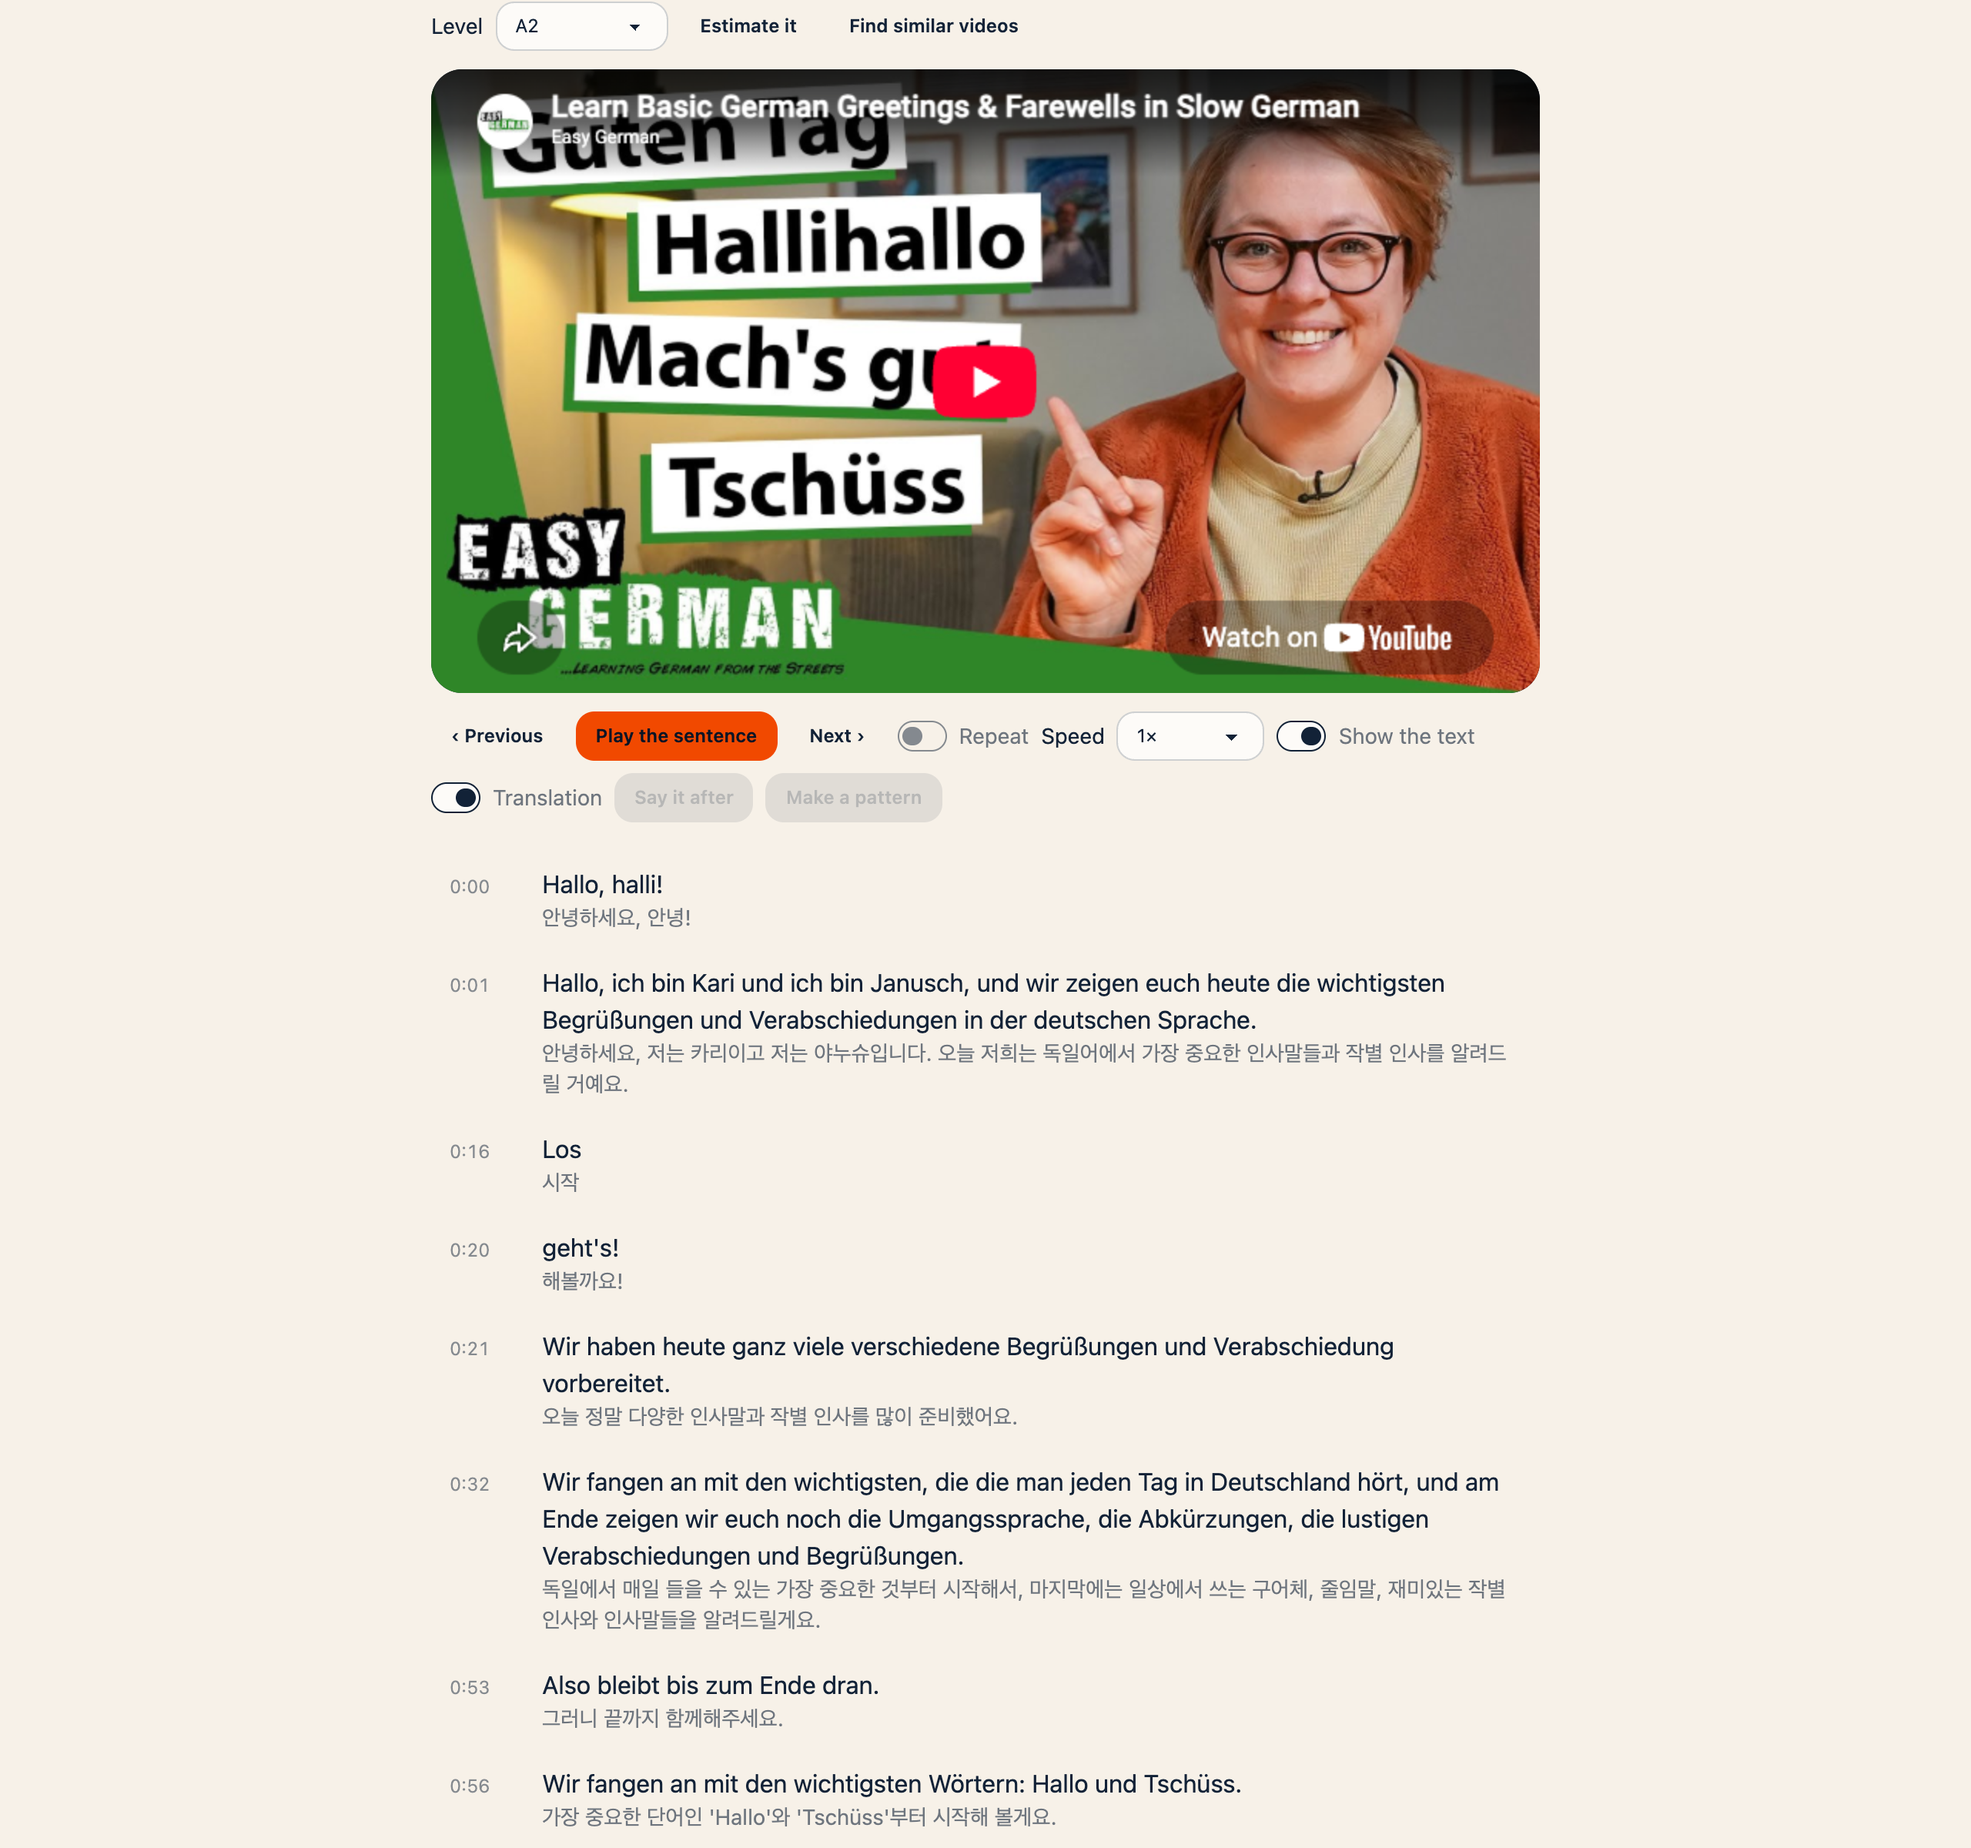
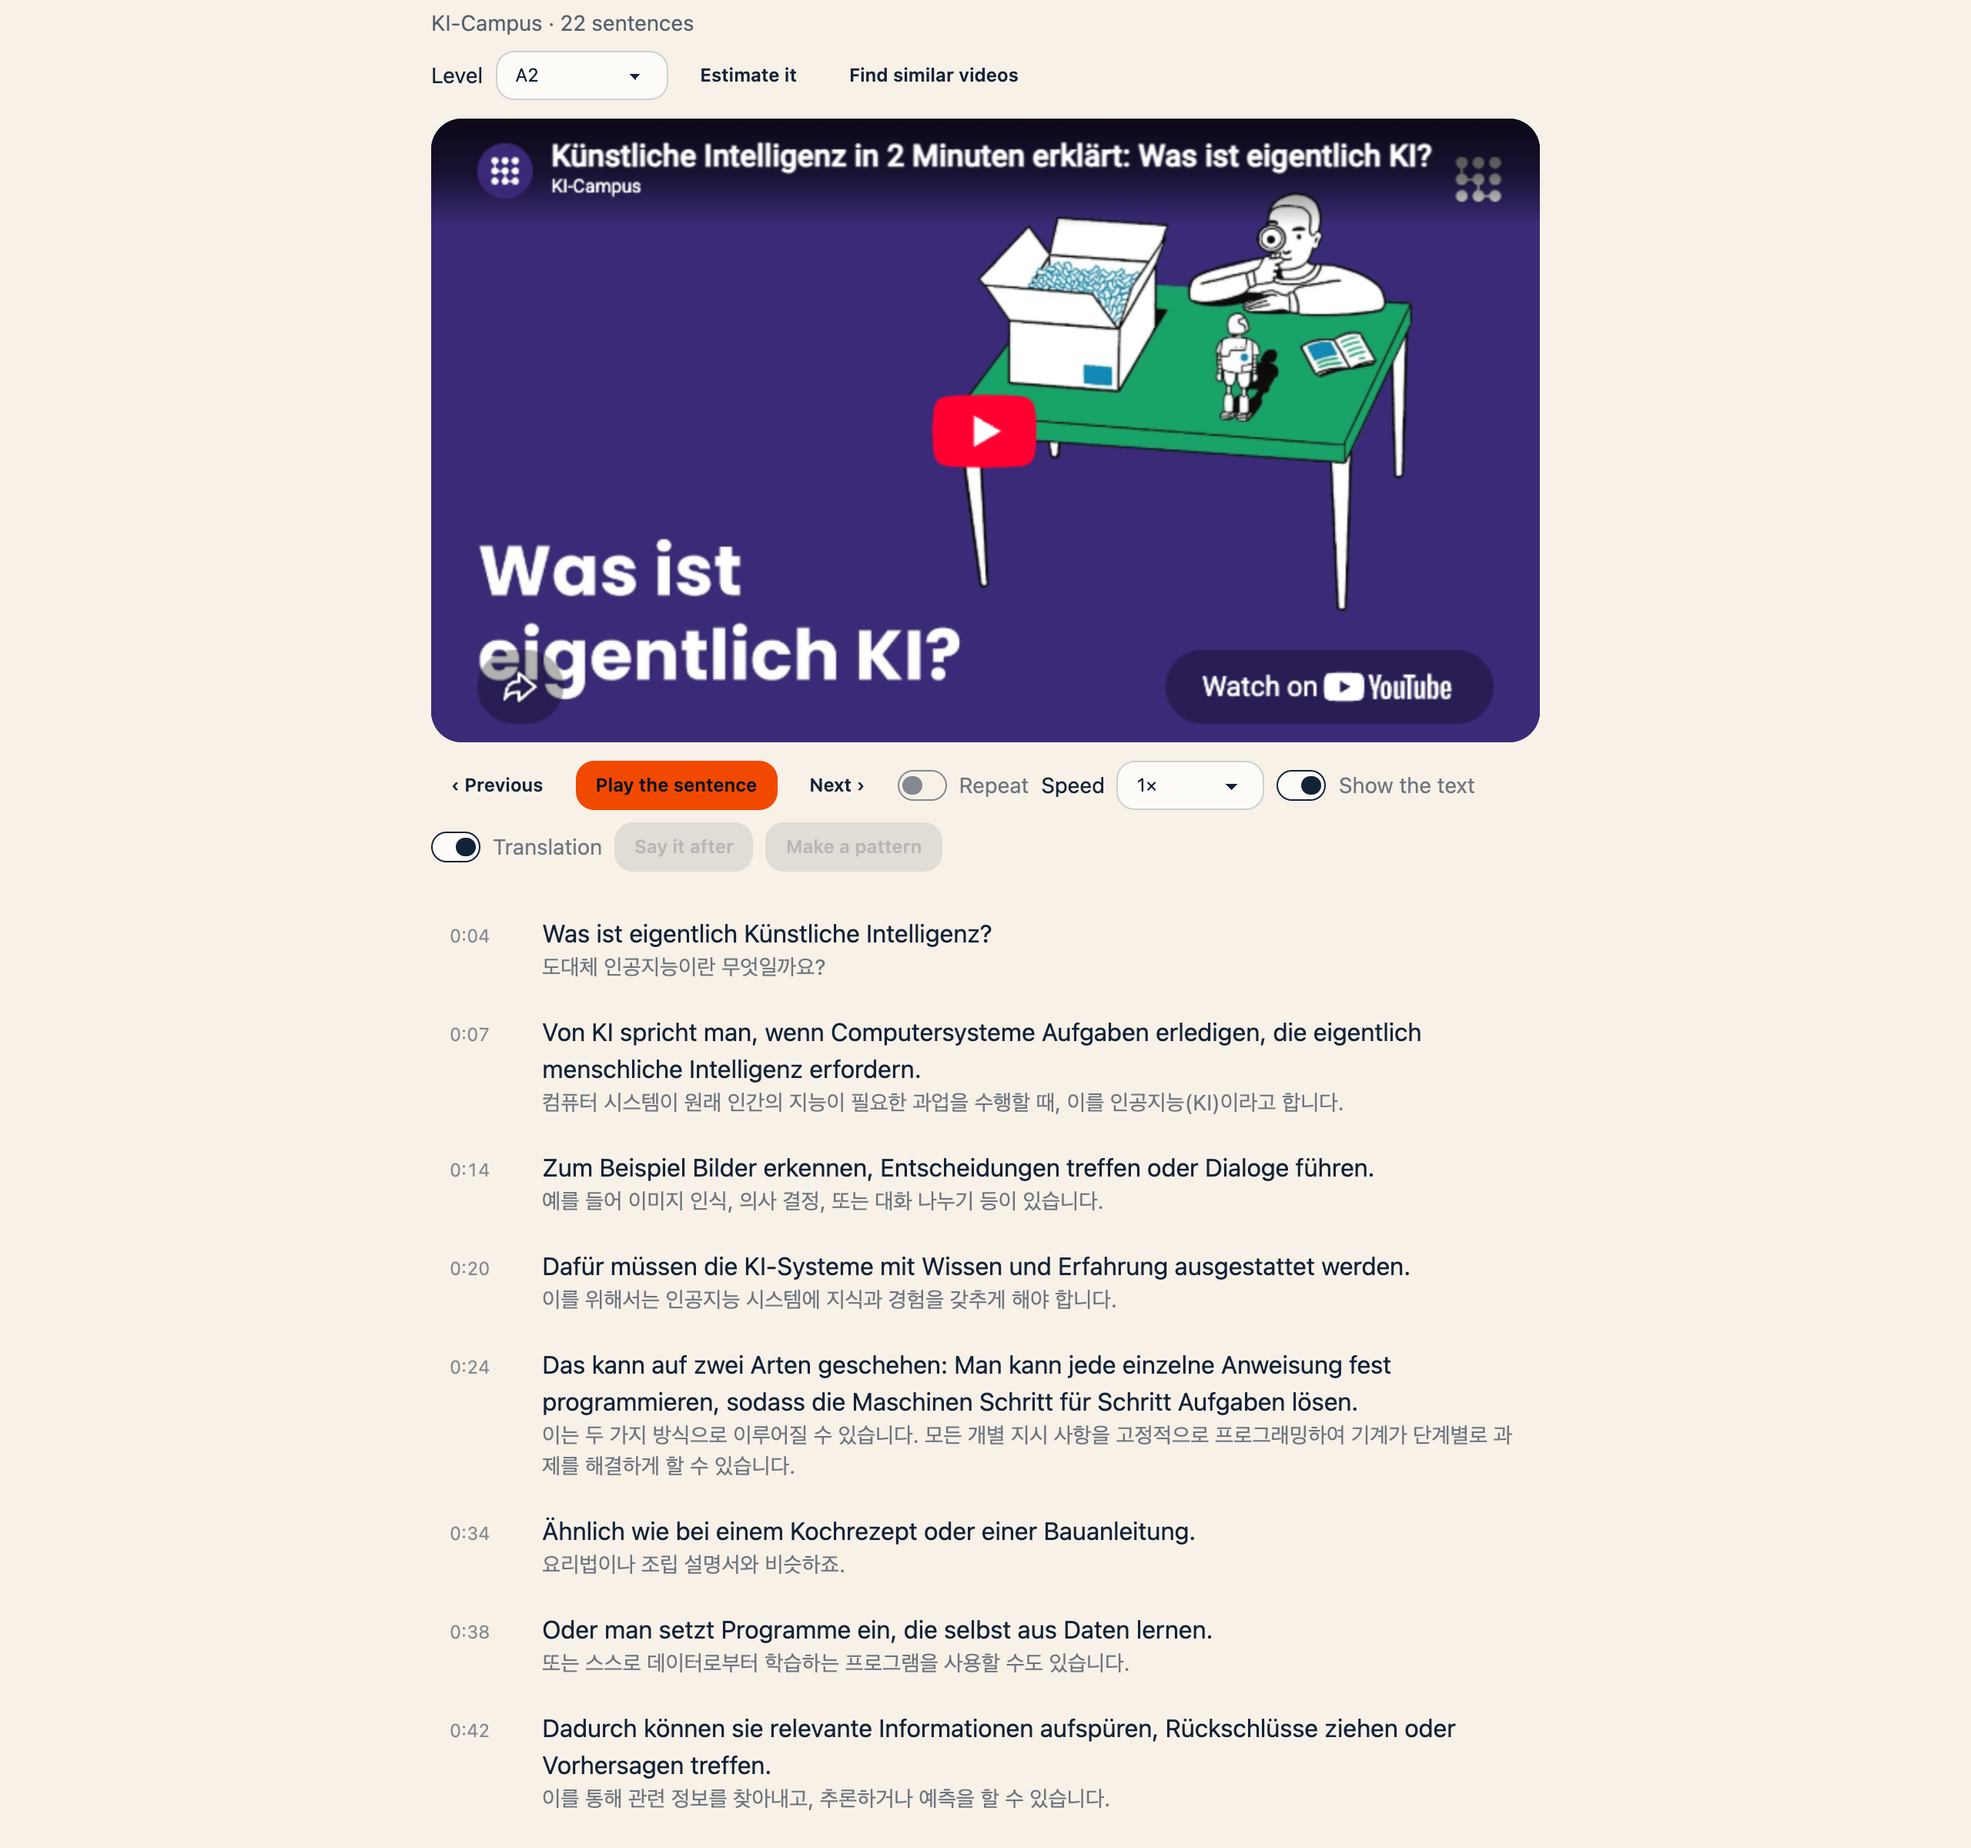
docs: show a CC BY video in the video screenshot
The first take showed a video under YouTube's standard licence. It is
replaced by a KI-Campus video licensed CC BY, credited under the image.

Changed region(s): [[0.2188, 0.0, 0.7812, 1.0], [0.2188, 0.7188, 0.25, 0.75]]

diff --git a/README.md b/README.md
@@ -152,7 +152,8 @@ pattern; the sentences themselves are not stored. With German as the feedback la
 short instruction in German ("Sag, dass du bereust, …") is shown in place of a sentence to translate.
 
 ### Videos
-![A video in SOS My German, cut into sentences, each with its Korean translation](docs/images/video.png)
+![A video in SOS My German, its sentences each with a Korean translation](docs/images/video.png)
+*Video: ["Künstliche Intelligenz in 2 Minuten erklärt: Was ist eigentlich KI?"](https://www.youtube.com/watch?v=sDt5bTQBJis) by KI-Campus, [CC BY](https://creativecommons.org/licenses/by/3.0/), shown in YouTube's player.*
 
 The Videos page takes a link to a YouTube video that has German subtitles. The video is played
 by YouTube's own embedded player, inside the app, and is never downloaded. The app reads the
